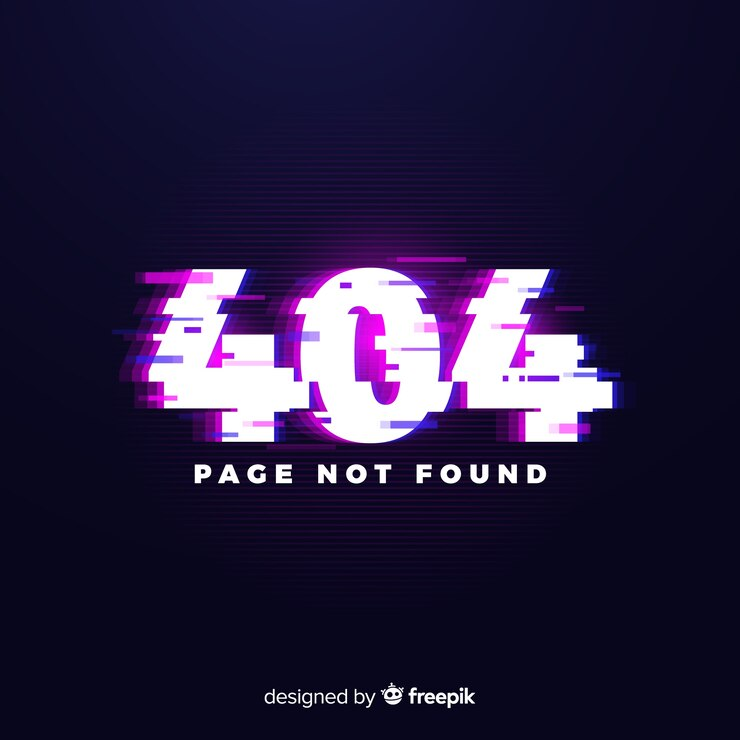
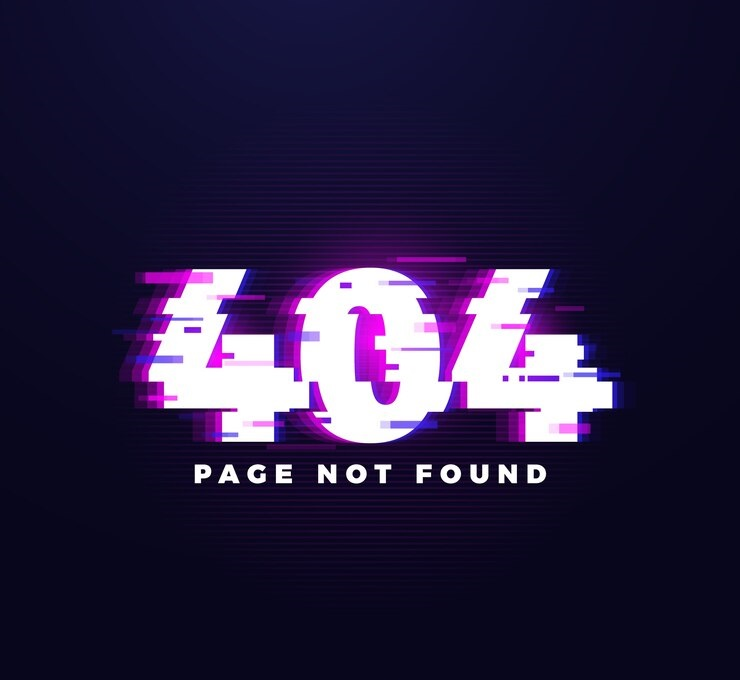
agrego imagen error404

Changed region(s): [[0.1554, 0.3088, 0.8703, 0.7103], [0.3419, 0.9265, 0.6527, 0.9574]]

diff --git a/pages/error404.html b/pages/error404.html
@@ -46,7 +46,7 @@
             </div>
             <div class="mt-2 ms-3">
               <button class="btn btn-outline-danger" type="submit">
-                Buscar
+                Refresh
               </button>
             </div>
           </form>
@@ -102,9 +102,9 @@
             </li>
             <li class="nav-item">
               <a
-                class="nav-link active"
+                class="nav-link"
                 aria-current="page"
-                href="./pages/nosotros.html"
+                href="./nosotros.html"
                 >Nosotros</a
               >
             </li>
@@ -136,9 +136,8 @@
         </div>
       </div>
     </nav>
-    <main>
-    
-
+    <main class="text-center">
+      <img src="../img/pagina-error-404-distorsion_52683-3853.jpg" alt="error404" class="img-fluid">
     </main>
     <footer class="bg-body-tertiary">
       <section class="container-fluid">

diff --git a/index.html b/index.html
@@ -147,9 +147,9 @@
             id="cajaBotones"
             class="text-center justify-content-center mt-3 d-flex justify-content-evenly flex-md-column align-items-md-start align-items-md-center"
           >
-            <div class=""><i class="bi bi-compass nav-item fs-1"></i></div>
-            <div class=""><i class="bi bi-play-btn nav-item fs-1"></i></div>
-            <div class="">
+            <div><i class="bi bi-compass nav-item fs-1"></i></div>
+            <div><i class="bi bi-play-btn nav-item fs-1"></i></div>
+            <div>
               <i class="bi bi-file-earmark-music-fill nav-item fs-1"></i>
             </div>
           </div>

diff --git a/pages/administrador.html b/pages/administrador.html
@@ -100,7 +100,7 @@
                       >Inicia Sesión</a
                     >
                   </li>
-                  <li><a class="dropdown-item" href="./pages/error404.html">Registrarse</a></li>
+                  <li><a class="dropdown-item" href="./error404.html">Registrarse</a></li>
                 </ul>
               </li>
 
@@ -114,7 +114,7 @@
                 <a
                   class="nav-link"
                   aria-current="page"
-                  href="../pages/nosotros.html"
+                  href="./nosotros.html"
                   >Nosotros</i
                 ></a>
               </li>

diff --git a/css/style.css b/css/style.css
@@ -1,4 +1,3 @@
-
 body {
   display: flex;
   flex-direction: column;
@@ -18,8 +17,8 @@ main {
   max-height: 20px;
 }
 
-.ms-10{
-margin-left: 80px ;
+.ms-10 {
+  margin-left: 80px;
 }
 
 @media all and (max-width: 767px) {
@@ -28,7 +27,7 @@ margin-left: 80px ;
     flex-direction: column;
     min-height: 100vh;
   }
-  
+
   main {
     flex-grow: 1;
   }
